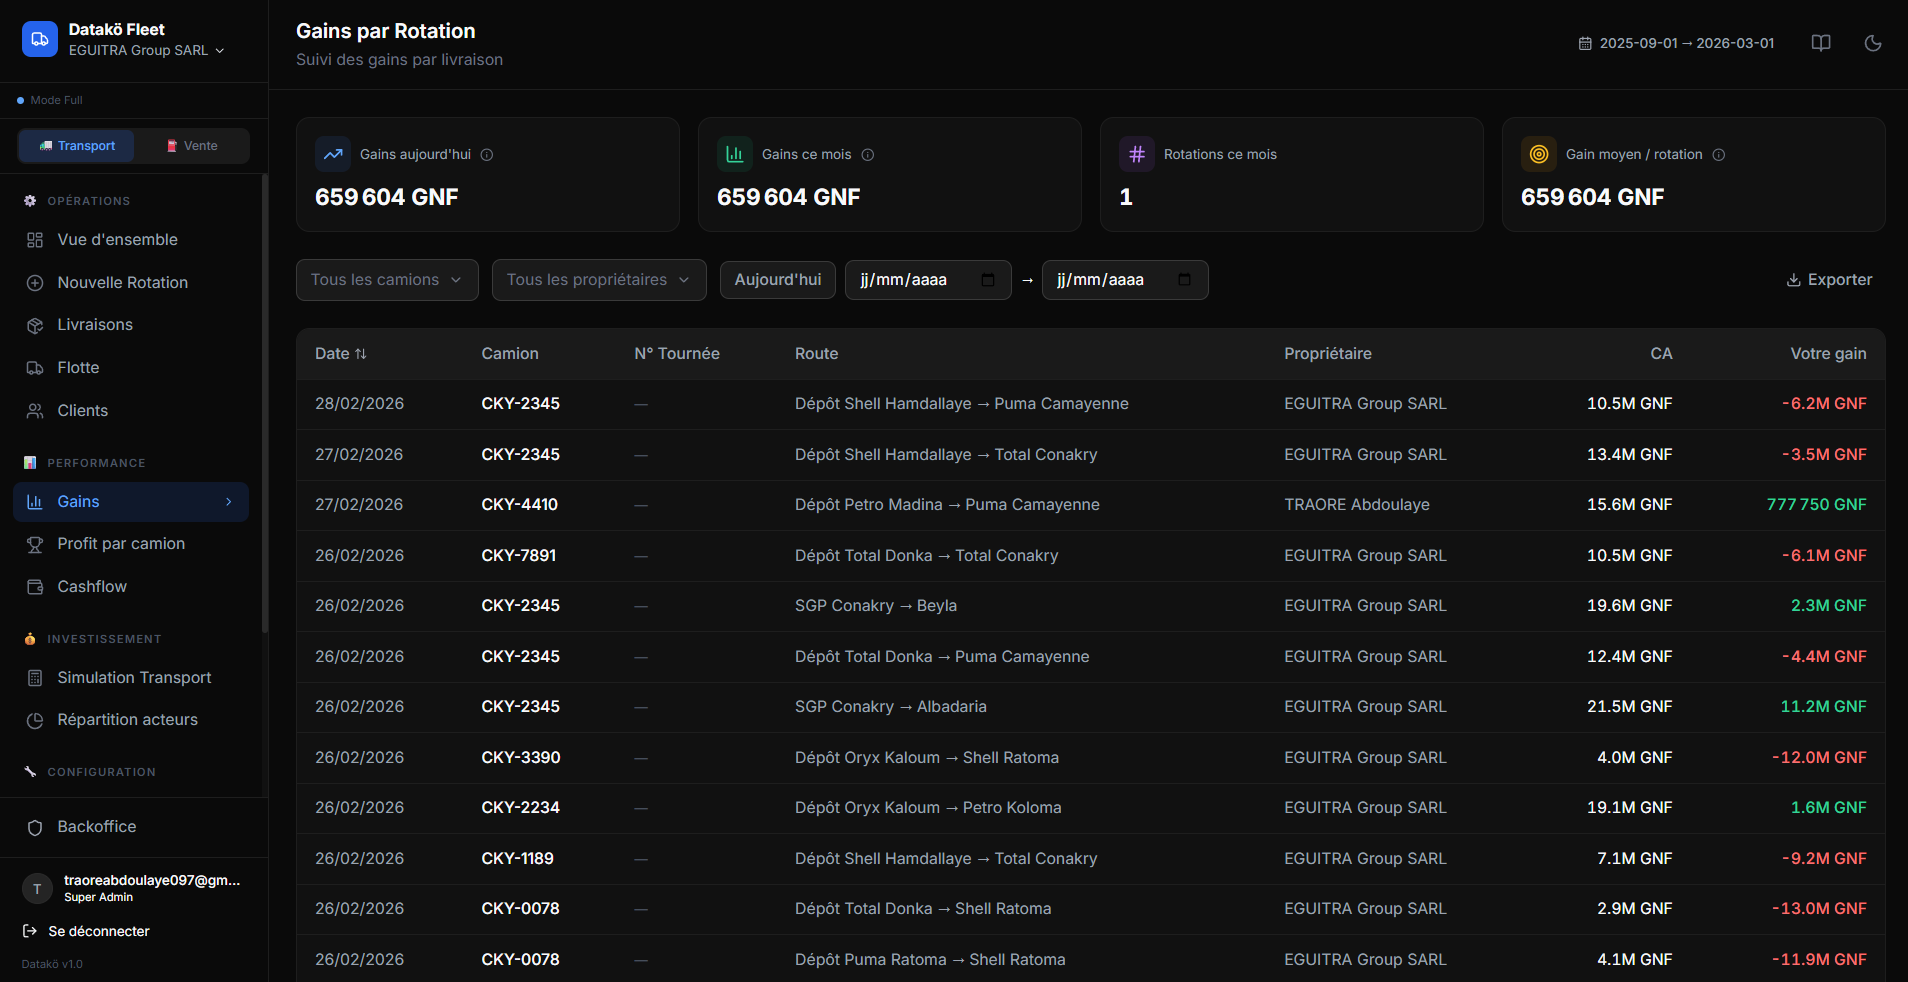
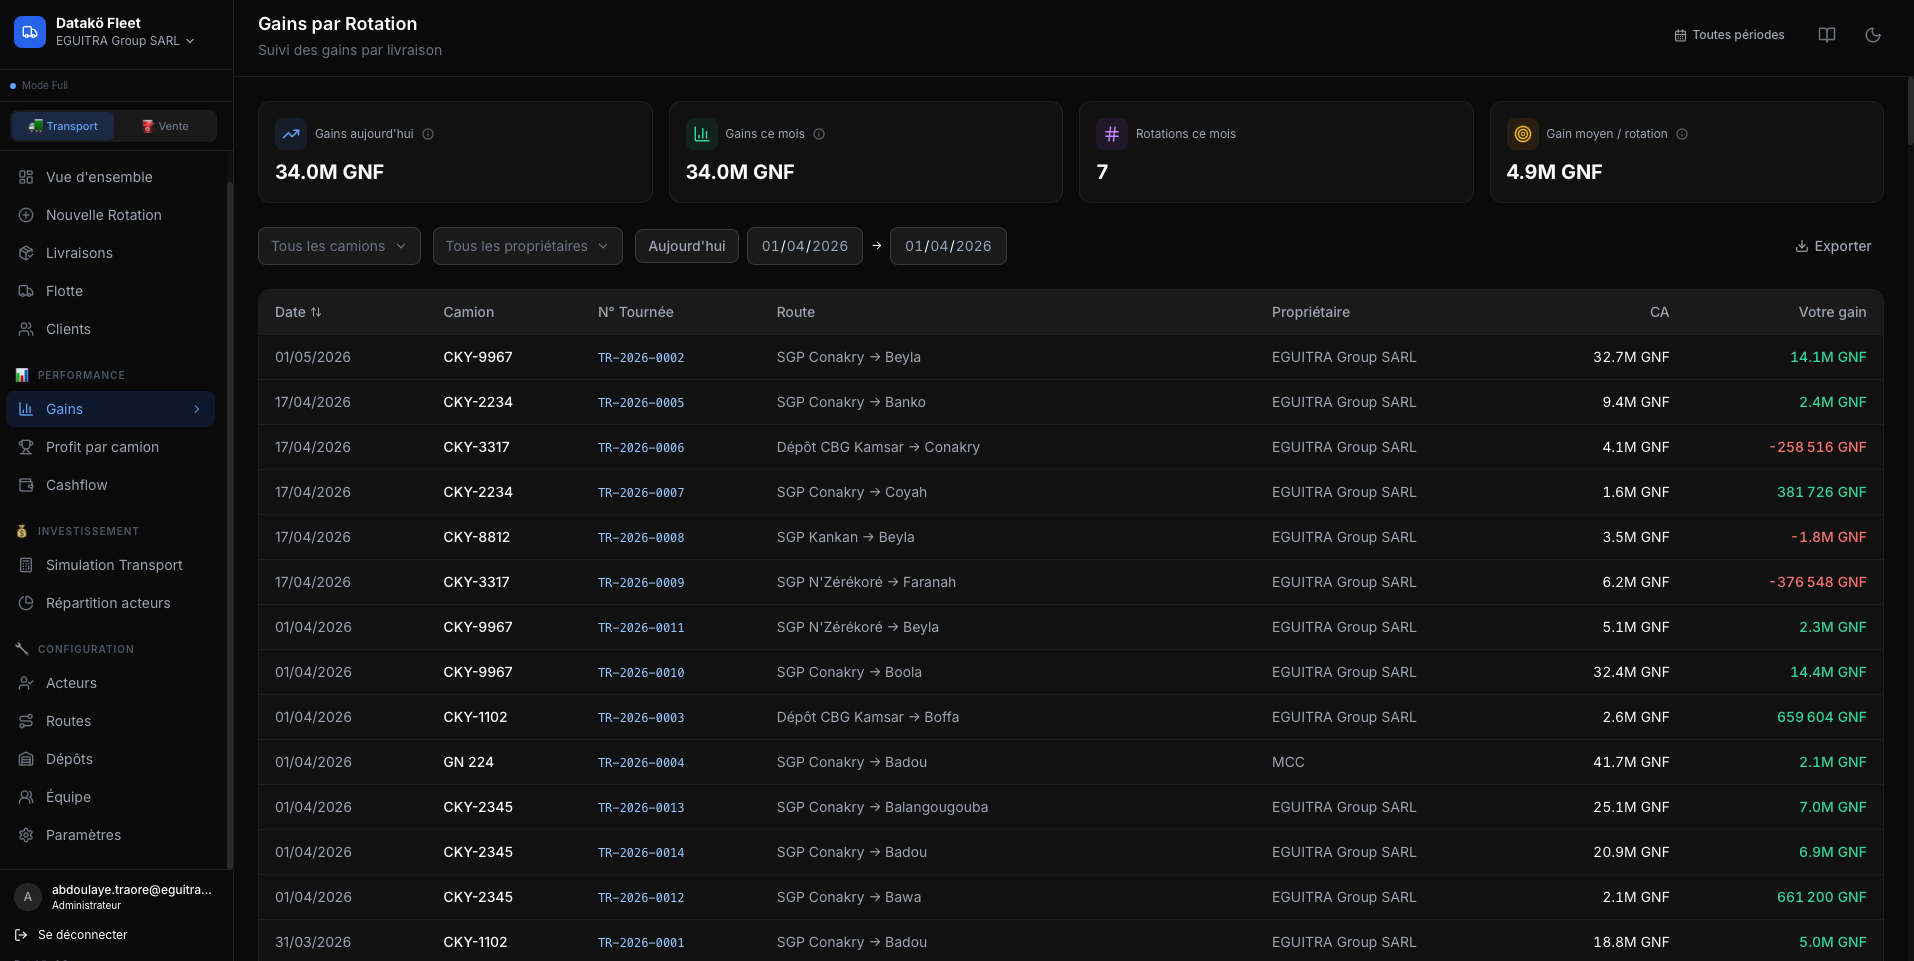
fix: solutions pages

diff --git a/solutions.html b/solutions.html
@@ -66,8 +66,8 @@
                 </div>
 
                 <div class="hero-visual">
-                    <div class="ui-placeholder hero-placeholder">
-                        <span>[ Visuel de la Plateforme / Aperçu Dashboard ]</span>
+                    <div class="hero-placeholder" style="border-radius: 12px; overflow: hidden; display: flex; width: 100%;">
+                        <img src="images/platform_hero.png" alt="DataKö Plateforme Dashboard IA" style="width: 100%; height: 100%; object-fit: cover;">
                     </div>
                 </div>
             </div>
@@ -85,7 +85,9 @@
                 <!-- Left: Fleet Visual -->
                 <div class="fleet-visual-col">
                     <div class="ui-placeholder fleet-placeholder">
-                        <span>[ Interface DataKö Fleet & Workflows WhatsApp ]</span>
+                        <img src="images/dashboard_fleet.png" 
+                            alt="Dashboard DataKö Fleet - suivi des opérations et rentabilité"
+                            style="border-radius: 12px; box-shadow: -40px 40px 100px rgba(0,0,0,0.7); width: 110%; max-width: none; height: auto; transform: perspective(1000px) rotateY(-6deg) translateX(15px);">
                     </div>
                 </div>
 

diff --git a/css/solutions.css b/css/solutions.css
@@ -91,7 +91,7 @@
 }
 
 .fleet-placeholder {
-    aspect-ratio: 4/3;
+    aspect-ratio: 16/10;
     background: rgba(255, 255, 255, 0.02);
     border: 1px dashed rgba(255, 255, 255, 0.15);
 }
